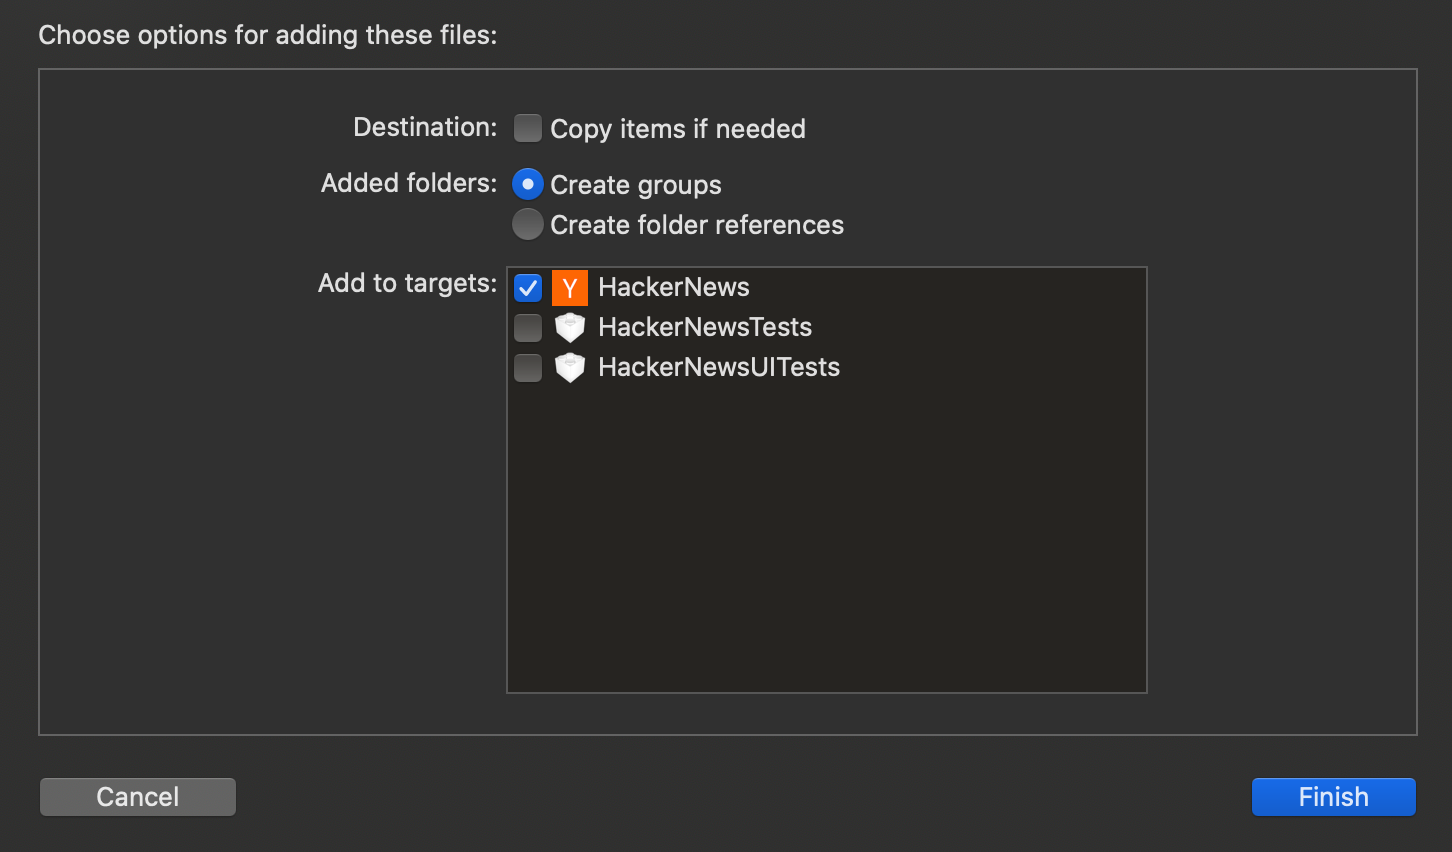
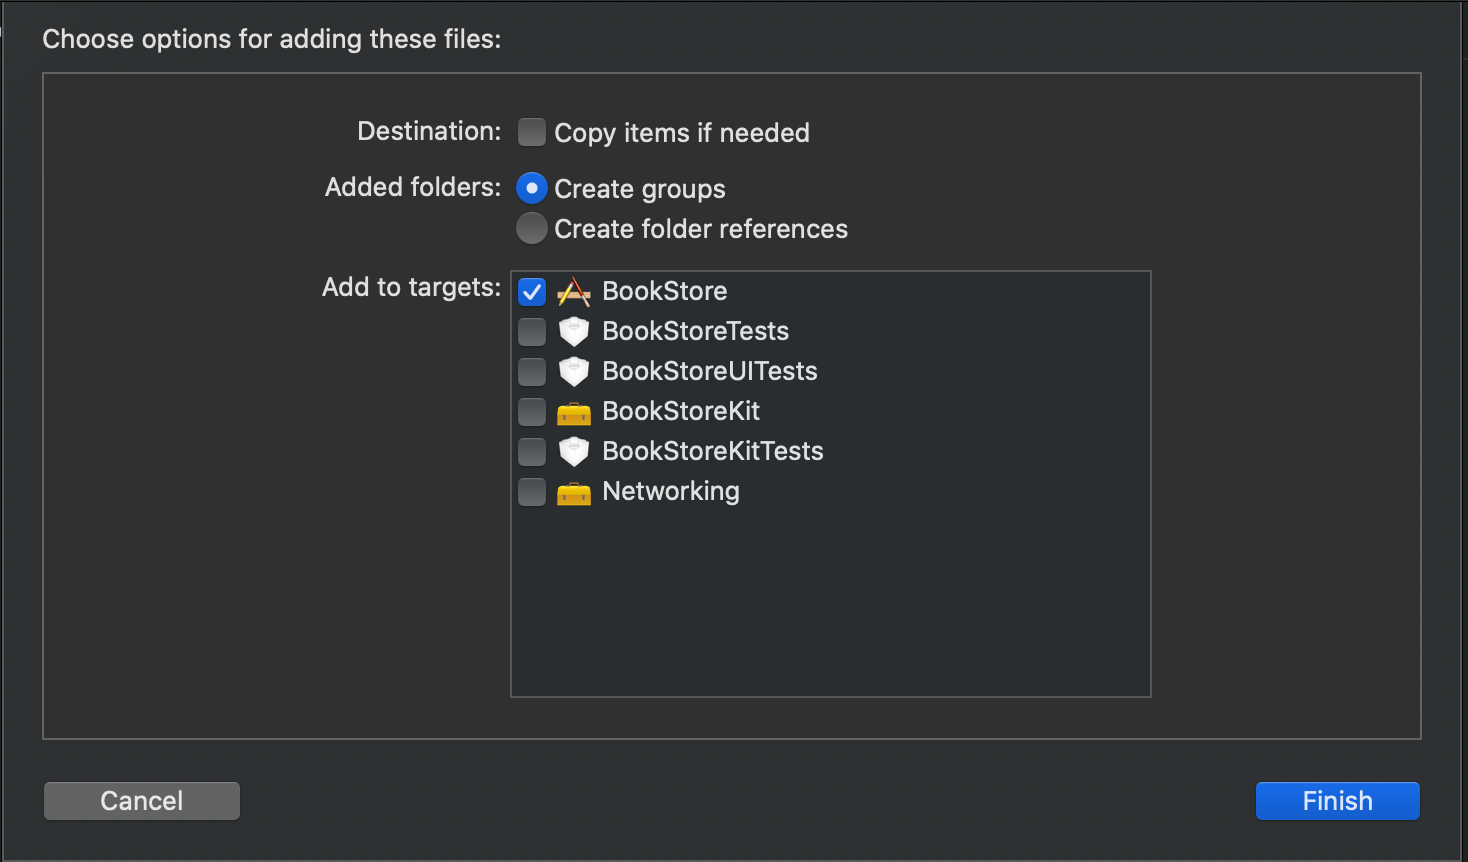
update Trace docs use the BookStore app

diff --git a/_articles/en/deploy/trace.md b/_articles/en/deploy/trace.md
@@ -53,14 +53,15 @@ Please note that once you installed Trace, it can take up to an hour for it to s
 
  1. Clone the app and go to its directory on your machine:
 
-        $ git clone https://github.com/amitburst/HackerNews.git
-        $ cd HackerNews/
+        $ git clone https://github.com/bitrise-io/BookStore-iOS.git
+        $ cd BookStore-iOS/
  2. Open the Podfile of the app and add the Trace SDK to it:
 
-        def pods
-          pod 'Firebase', '2.5.0' // existing Pod
+        # Podfile
+        
+        target 'YOUR_TARGET_NAME' do
           pod 'BitriseTrace'
-        end
+        end 
  3. Install the SDK by running pod install.  
     If you’ve done everything right, the Pod installation complete! message should appear.
  4. Open Trace on Bitrise.
@@ -68,7 +69,7 @@ Please note that once you installed Trace, it can take up to an hour for it to s
  6. Find the **Download Config file** step, and click **Download**.
  7. Open your app in Xcode:
 
-        $ open HackerNews.xcworkspace/ 
+        $ open BookStore.xcworkspace/ 
  8. Add the bitrise_configuration.plist file to your app by dragging and dropping it to the root of the project.
 
     ![](/img/trace-6.png)
